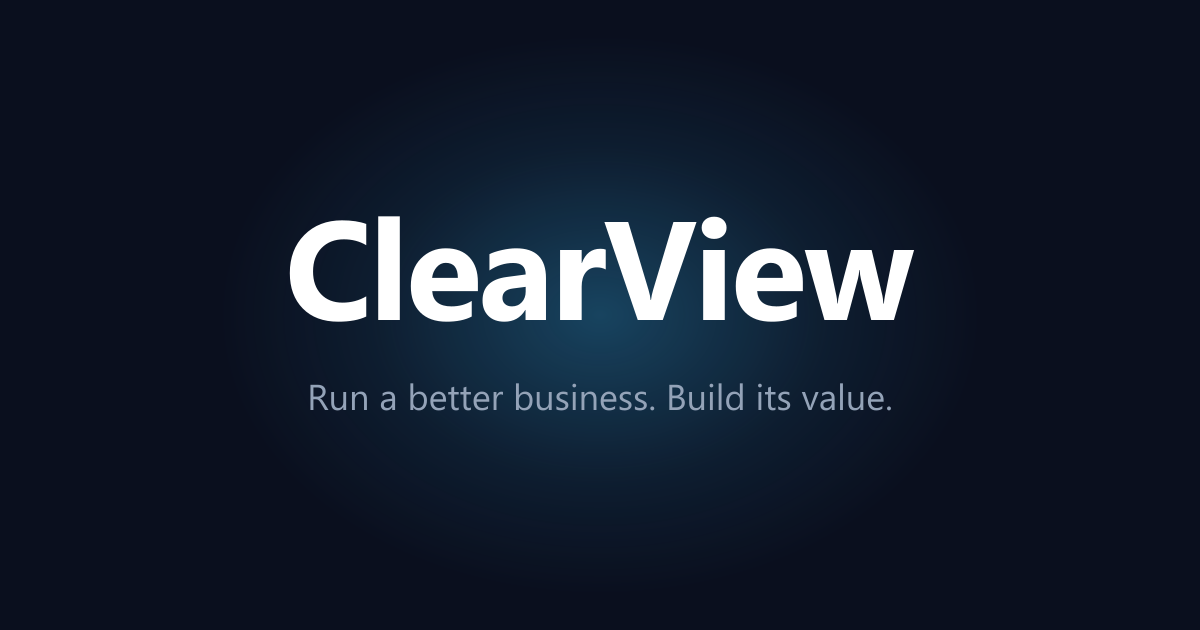
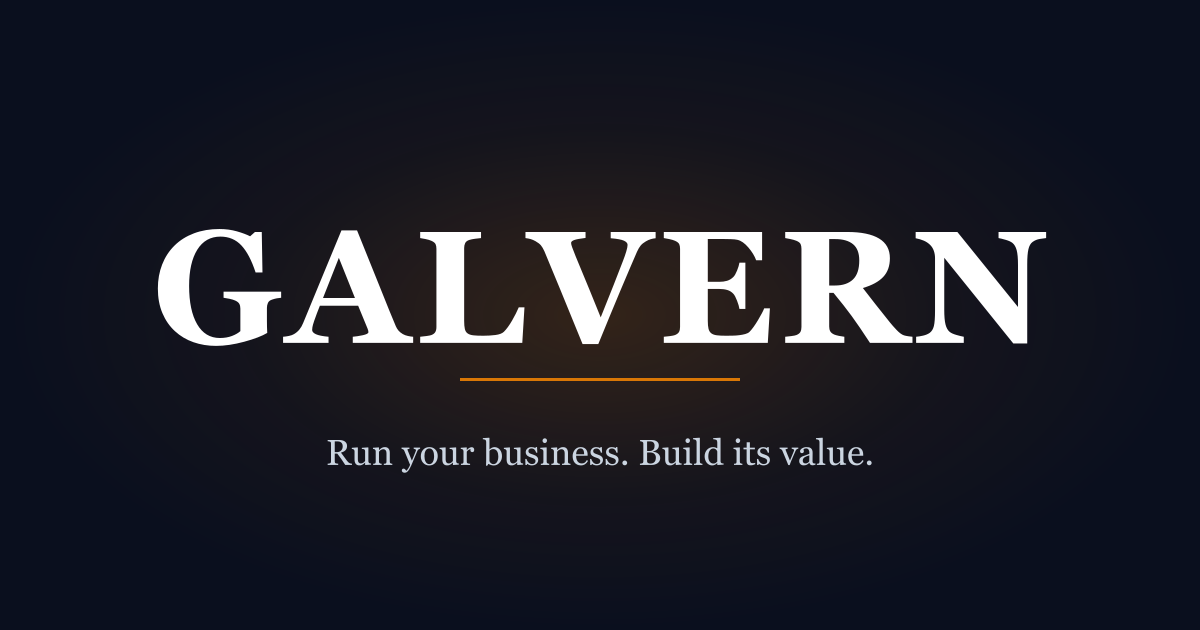
feat: rebrand ClearView to Galvern across marketing site
- String swap ClearView → Galvern site-wide
- H1 rewrite: 'Run your business. Build its value.'
  (derived from locked positioning, replaces off-message
  'Exit on Your Terms' framing)
- Sub-headline aligned to locked positioning + service
  business segment
- Color accent: sky-blue → copper/amber palette throughout
- og.png regenerated with Galvern wordmark + copper accent
- Favicon: CV tile → placeholder G tile
- Resend confirmation email updated to Galvern voice
- Footer copyright + privacy + terms updated

Domain galvern.com registered separately. Custom domain
wiring deferred to future session along with Resend domain
verification and repo rename.

Changed region(s): [[0.1233, 0.2413, 0.8942, 0.754]]

diff --git a/public/privacy.html b/public/privacy.html
@@ -3,8 +3,8 @@
   <head>
     <meta charset="UTF-8" />
     <meta name="viewport" content="width=device-width, initial-scale=1.0" />
-    <title>Privacy Policy — ClearView</title>
-    <meta name="description" content="ClearView privacy policy: what we collect, how we use it, and your rights." />
+    <title>Privacy Policy — Galvern</title>
+    <meta name="description" content="Galvern privacy policy: what we collect, how we use it, and your rights." />
     <meta name="robots" content="index,follow" />
     <link rel="icon" type="image/svg+xml" href="/favicon.svg" />
     <link rel="preconnect" href="https://fonts.googleapis.com" />
@@ -16,7 +16,7 @@
         --text: #ffffff;
         --muted: #94a3b8;
         --dim: #64748b;
-        --accent: #38bdf8;
+        --accent: #d97706;
         --rule: rgba(255, 255, 255, 0.08);
       }
       * { box-sizing: border-box; }
@@ -63,8 +63,8 @@
     <div class="wrap">
       <header>
         <a class="brand" href="/">
-          <span class="logo">CV</span>
-          <span>ClearView</span>
+          <span class="logo">G</span>
+          <span>Galvern</span>
         </a>
         <a class="home-link" href="/">← Back to home</a>
       </header>
@@ -73,10 +73,10 @@
       <p class="updated">Last updated: 2026-05-05</p>
 
       <h2>What we collect</h2>
-      <p>The only personal information we collect on this site is your email address, which you provide voluntarily by joining the ClearView beta waitlist.</p>
+      <p>The only personal information we collect on this site is your email address, which you provide voluntarily by joining the Galvern beta waitlist.</p>
 
       <h2>How we use it</h2>
-      <p>We use your email address to notify you when the ClearView beta opens and to send occasional product updates related to the launch.</p>
+      <p>We use your email address to notify you when the Galvern beta opens and to send occasional product updates related to the launch.</p>
 
       <h2>Who we share it with</h2>
       <p>We do not sell or share your email with anyone, except for the service providers necessary to operate the waitlist:</p>
@@ -86,12 +86,12 @@
       </ul>
 
       <h2>Your rights</h2>
-      <p>You can ask us to delete your data at any time by emailing <a href="mailto:hello@clearview.example">hello@clearview.example</a>. <em>(Aaron — replace this placeholder address before launch.)</em></p>
+      <p>You can ask us to delete your data at any time by emailing <a href="mailto:hello@galvern.example">hello@galvern.example</a>. <em>(Aaron — replace this placeholder address before launch.)</em></p>
 
       <h2>Changes</h2>
-      <p>We may update this policy as ClearView evolves. The "Last updated" date above will reflect the most recent revision.</p>
+      <p>We may update this policy as Galvern evolves. The "Last updated" date above will reflect the most recent revision.</p>
 
-      <footer>© <span id="year"></span> ClearView. All rights reserved.</footer>
+      <footer>© <span id="year"></span> Galvern. All rights reserved.</footer>
     </div>
     <script>document.getElementById('year').textContent = new Date().getFullYear();</script>
   </body>

diff --git a/src/components/Hero.tsx b/src/components/Hero.tsx
@@ -5,35 +5,34 @@ export function Hero() {
     <section className="relative min-h-screen flex flex-col items-center justify-center text-center px-6 py-24 overflow-hidden">
       {/* Background glow */}
       <div className="absolute inset-0 pointer-events-none">
-        <div className="absolute top-1/2 left-1/2 -translate-x-1/2 -translate-y-1/2 w-[700px] h-[700px] bg-sky-600/15 rounded-full blur-[120px]" />
+        <div className="absolute top-1/2 left-1/2 -translate-x-1/2 -translate-y-1/2 w-[700px] h-[700px] bg-copper-600/15 rounded-full blur-[120px]" />
       </div>
 
       <div className="relative z-10 max-w-4xl mx-auto">
         {/* Wordmark */}
         <div className="flex items-center justify-center gap-2 mb-10">
-          <div className="w-8 h-8 bg-sky-500 rounded-lg flex items-center justify-center">
-            <span className="text-white font-bold text-sm">CV</span>
+          <div className="w-8 h-8 bg-copper-500 rounded-lg flex items-center justify-center">
+            <span className="text-white font-bold text-sm">G</span>
           </div>
-          <span className="text-white font-semibold text-lg tracking-tight">ClearView</span>
+          <span className="text-white font-semibold text-lg tracking-tight">Galvern</span>
         </div>
 
         {/* Badge */}
-        <div className="inline-flex items-center gap-2 bg-sky-500/10 border border-sky-500/30 rounded-full px-4 py-1.5 text-sky-400 text-sm font-medium mb-8">
-          <span className="w-2 h-2 bg-sky-400 rounded-full animate-pulse" />
+        <div className="inline-flex items-center gap-2 bg-copper-500/10 border border-copper-500/30 rounded-full px-4 py-1.5 text-copper-500 text-sm font-medium mb-8">
+          <span className="w-2 h-2 bg-copper-500 rounded-full animate-pulse" />
           Now accepting beta applications
         </div>
 
         {/* Headline */}
         <h1 className="text-5xl sm:text-6xl lg:text-7xl font-extrabold text-white leading-tight tracking-tight mb-6">
-          Run a Better Business.<br />
-          <span className="text-sky-400">Know What It's Worth.</span><br />
-          Exit on Your Terms.
+          Run your business.<br />
+          <span className="text-copper-500">Build its value.</span>
         </h1>
 
         {/* Sub */}
         <p className="text-xl sm:text-2xl text-slate-400 max-w-2xl mx-auto mb-10 leading-relaxed">
-          ClearView is the operating platform for small business owners who want to grow smarter,
-          fix what's holding them back, and be ready — whenever the right opportunity comes.
+          Galvern is the operating platform for owner-operators of $1M–$20M service
+          businesses. The daily work that compounds into a more valuable company.
         </p>
 
         <div className="flex flex-col items-center gap-3">

diff --git a/public/terms.html b/public/terms.html
@@ -3,8 +3,8 @@
   <head>
     <meta charset="UTF-8" />
     <meta name="viewport" content="width=device-width, initial-scale=1.0" />
-    <title>Terms of Use — ClearView</title>
-    <meta name="description" content="ClearView terms of use for the beta waitlist site." />
+    <title>Terms of Use — Galvern</title>
+    <meta name="description" content="Galvern terms of use for the beta waitlist site." />
     <meta name="robots" content="index,follow" />
     <link rel="icon" type="image/svg+xml" href="/favicon.svg" />
     <link rel="preconnect" href="https://fonts.googleapis.com" />
@@ -16,7 +16,7 @@
         --text: #ffffff;
         --muted: #94a3b8;
         --dim: #64748b;
-        --accent: #38bdf8;
+        --accent: #d97706;
         --rule: rgba(255, 255, 255, 0.08);
       }
       * { box-sizing: border-box; }
@@ -63,8 +63,8 @@
     <div class="wrap">
       <header>
         <a class="brand" href="/">
-          <span class="logo">CV</span>
-          <span>ClearView</span>
+          <span class="logo">G</span>
+          <span>Galvern</span>
         </a>
         <a class="home-link" href="/">← Back to home</a>
       </header>
@@ -73,18 +73,18 @@
       <p class="updated">Last updated: 2026-05-05</p>
 
       <h2>About this site</h2>
-      <p>This site is a beta waitlist for ClearView, a SaaS platform currently in development.</p>
+      <p>This site is a beta waitlist for Galvern, a SaaS platform currently in development.</p>
 
       <h2>Submitting your email</h2>
       <p>By submitting your email address, you agree to receive updates from us about the product, including launch announcements and related communications.</p>
 
       <h2>No offer or guarantee</h2>
-      <p>ClearView is not yet generally available. Nothing on this site constitutes an offer to sell, a contract, or a guarantee of access to the product.</p>
+      <p>Galvern is not yet generally available. Nothing on this site constitutes an offer to sell, a contract, or a guarantee of access to the product.</p>
 
       <h2>Changes</h2>
       <p>We may update these terms at any time. The "Last updated" date above will reflect the most recent revision. Continued use of the site after changes means you accept the updated terms.</p>
 
-      <footer>© <span id="year"></span> ClearView. All rights reserved.</footer>
+      <footer>© <span id="year"></span> Galvern. All rights reserved.</footer>
     </div>
     <script>document.getElementById('year').textContent = new Date().getFullYear();</script>
   </body>

diff --git a/src/components/OwnerProfiles.tsx b/src/components/OwnerProfiles.tsx
@@ -3,19 +3,19 @@ const profiles = [
     emoji: '💪',
     label: 'The Grinder',
     tagline: 'Head down, running hard, no time to zoom out.',
-    desc: "ClearView gives you the visibility you've never had — so you can finally work on the business, not just in it.",
+    desc: "Galvern gives you the visibility you've never had — so you can finally work on the business, not just in it.",
   },
   {
     emoji: '🚀',
     label: 'The Grower',
     tagline: 'Ready to scale but not sure where to push.',
-    desc: 'ClearView shows you exactly where the leverage is so every dollar and hour goes toward real growth.',
+    desc: 'Galvern shows you exactly where the leverage is so every dollar and hour goes toward real growth.',
   },
   {
     emoji: '🎯',
     label: 'The Planner',
-    tagline: 'Not selling tomorrow, but want to be ready when it makes sense.',
-    desc: "ClearView builds your enterprise value every single day — so when the right moment comes, you're in control.",
+    tagline: 'Not selling tomorrow — but compounding value every day until you do.',
+    desc: 'Galvern builds your enterprise value every single day — so the business is always worth more tomorrow than today.',
   },
 ]
 
@@ -34,11 +34,11 @@ export function OwnerProfiles() {
           {profiles.map((p, i) => (
             <div
               key={i}
-              className="bg-white/[0.03] border border-white/10 rounded-2xl p-8 hover:border-sky-500/30 transition"
+              className="bg-white/[0.03] border border-white/10 rounded-2xl p-8 hover:border-copper-500/30 transition"
             >
               <div className="text-5xl mb-4">{p.emoji}</div>
               <h3 className="text-white font-bold text-xl mb-1">{p.label}</h3>
-              <p className="text-sky-400 text-sm font-medium mb-3">{p.tagline}</p>
+              <p className="text-copper-500 text-sm font-medium mb-3">{p.tagline}</p>
               <p className="text-slate-400 text-sm leading-relaxed">{p.desc}</p>
             </div>
           ))}

diff --git a/index.html b/index.html
@@ -6,12 +6,12 @@
     <meta name="viewport" content="width=device-width, initial-scale=1.0" />
 
     <!-- SEO -->
-    <title>ClearView — Run a better business. Build its value.</title>
-    <meta name="description" content="ClearView is the operating platform for small business owners who want to grow smarter, fix what's holding them back, and be ready whenever the right opportunity comes." />
+    <title>Galvern — Run a better business. Build its value.</title>
+    <meta name="description" content="Galvern is the operating platform for small business owners who want to grow smarter, fix what's holding them back, and be ready whenever the right opportunity comes." />
     <meta name="keywords" content="small business operations platform, M&A readiness, business valuation tool, exit planning small business, how to sell a service business, business performance dashboard" />
 
     <!-- Open Graph -->
-    <meta property="og:title" content="ClearView — Run a better business. Build its value." />
+    <meta property="og:title" content="Galvern — Run a better business. Build its value." />
     <meta property="og:description" content="The operating platform for owner-operators of service businesses doing $1M–$20M. Run the daily work that compounds into a more valuable company." />
     <meta property="og:image" content="/og.png" />
     <meta property="og:url" content="https://clearview-marketing.vercel.app" />
@@ -19,7 +19,7 @@
 
     <!-- Twitter Card -->
     <meta name="twitter:card" content="summary_large_image" />
-    <meta name="twitter:title" content="ClearView — Run a better business. Build its value." />
+    <meta name="twitter:title" content="Galvern — Run a better business. Build its value." />
     <meta name="twitter:description" content="The operating platform for owner-operators of service businesses doing $1M–$20M. Run the daily work that compounds into a more valuable company." />
     <meta name="twitter:image" content="/og.png" />
 

diff --git a/src/components/Features.tsx b/src/components/Features.tsx
@@ -6,8 +6,8 @@ const features = [
   },
   {
     icon: '📊',
-    title: 'M&A Readiness Score',
-    desc: 'Always know where you stand across financials, operations, and growth metrics — and exactly what to improve.',
+    title: 'Readiness Score',
+    desc: 'Always know where you stand across financials, operations, and growth — and exactly what to improve.',
   },
   {
     icon: '📈',
@@ -29,17 +29,17 @@ export function Features() {
           One platform. Every angle covered.
         </h2>
         <p className="text-slate-400 text-center max-w-xl mx-auto mb-16 text-lg">
-          ClearView connects your operations, financials, and strategic position into a single clear picture.
+          Galvern connects your operations, financials, and value drivers into a single clear picture.
         </p>
 
         <div className="grid sm:grid-cols-2 gap-6">
           {features.map((f, i) => (
             <div
               key={i}
-              className="bg-white/[0.03] border border-white/10 rounded-2xl p-8 hover:border-sky-500/30 transition group"
+              className="bg-white/[0.03] border border-white/10 rounded-2xl p-8 hover:border-copper-500/30 transition group"
             >
               <div className="text-4xl mb-4">{f.icon}</div>
-              <h3 className="text-white font-semibold text-xl mb-2 group-hover:text-sky-400 transition">
+              <h3 className="text-white font-semibold text-xl mb-2 group-hover:text-copper-500 transition">
                 {f.title}
               </h3>
               <p className="text-slate-400 leading-relaxed">{f.desc}</p>

diff --git a/src/components/Footer.tsx b/src/components/Footer.tsx
@@ -2,18 +2,18 @@ export function Footer() {
   return (
     <footer className="border-t border-white/5 py-8 px-6 text-center">
       <div className="flex items-center justify-center gap-2 mb-3">
-        <div className="w-6 h-6 bg-sky-500 rounded-md flex items-center justify-center">
-          <span className="text-white font-bold text-xs">CV</span>
+        <div className="w-6 h-6 bg-copper-500 rounded-md flex items-center justify-center">
+          <span className="text-white font-bold text-xs">G</span>
         </div>
-        <span className="text-slate-400 font-medium">ClearView</span>
+        <span className="text-slate-400 font-medium">Galvern</span>
       </div>
       <nav className="flex items-center justify-center gap-4 mb-3 text-sm">
-        <a href="/privacy.html" className="text-slate-500 hover:text-sky-400 transition">Privacy</a>
+        <a href="/privacy.html" className="text-slate-500 hover:text-copper-500 transition">Privacy</a>
         <span className="text-slate-700">·</span>
-        <a href="/terms.html" className="text-slate-500 hover:text-sky-400 transition">Terms</a>
+        <a href="/terms.html" className="text-slate-500 hover:text-copper-500 transition">Terms</a>
       </nav>
       <p className="text-slate-600 text-sm">
-        © {new Date().getFullYear()} ClearView. All rights reserved.
+        © {new Date().getFullYear()} Galvern. All rights reserved.
       </p>
     </footer>
   )

diff --git a/api/subscribe.ts b/api/subscribe.ts
@@ -7,11 +7,11 @@ const EMAIL_RE = /^[^\s@]+@[^\s@]+\.[^\s@]+$/
 
 const CONFIRMATION_TEXT = `Thanks for reserving your spot.
 
-ClearView is being built for owner-operators of service businesses doing $1M-$20M who want to run the daily work AND build the company's value at the same time. We'll be in touch when the beta opens.
+Galvern is being built for owner-operators of service businesses doing $1M-$20M who want to run the daily work AND build the company's value at the same time. We'll be in touch when the beta opens.
 
 No action needed from you right now.
 
-— The ClearView team
+— The Galvern team
 `
 
 export default async function handler(request: Request): Promise<Response> {
@@ -65,9 +65,9 @@ export default async function handler(request: Request): Promise<Response> {
     try {
       const resend = new Resend(resendKey)
       await resend.emails.send({
-        from: 'ClearView <onboarding@resend.dev>',
+        from: 'Galvern <onboarding@resend.dev>',
         to: email,
-        subject: "You're on the ClearView beta list",
+        subject: "You're on the Galvern beta list",
         text: CONFIRMATION_TEXT,
       })
     } catch (e) {

diff --git a/src/components/WaitlistCTA.tsx b/src/components/WaitlistCTA.tsx
@@ -4,12 +4,12 @@ export function WaitlistCTA() {
   return (
     <section className="py-24 px-6">
       <div className="max-w-2xl mx-auto text-center">
-        <div className="bg-gradient-to-br from-sky-500/10 to-blue-600/5 border border-sky-500/20 rounded-3xl p-12">
+        <div className="bg-gradient-to-br from-copper-500/10 to-copper-600/5 border border-copper-500/20 rounded-3xl p-12">
           <h2 className="text-3xl sm:text-4xl font-bold text-white mb-4">
             Be First. Shape the Product.
           </h2>
           <p className="text-slate-400 text-lg mb-8 leading-relaxed">
-            We're opening ClearView to a small group of beta users. Early members get{' '}
+            We're opening Galvern to a small group of beta users. Early members get{' '}
             <span className="text-white font-medium">free access</span>, direct input on features,
             and priority onboarding.
           </p>

diff --git a/src/components/PainPoints.tsx b/src/components/PainPoints.tsx
@@ -9,7 +9,7 @@ const pains = [
   },
   {
     icon: '⚡',
-    text: "When growth stalls — or a buyer calls — you're not ready.",
+    text: "You can't tell which of today's hustle actually compounds into value.",
   },
 ]
 
@@ -24,7 +24,7 @@ export function PainPoints() {
           {pains.map((p, i) => (
             <div
               key={i}
-              className="bg-white/[0.03] border border-white/10 rounded-2xl p-6 text-center hover:border-sky-500/30 transition"
+              className="bg-white/[0.03] border border-white/10 rounded-2xl p-6 text-center hover:border-copper-500/30 transition"
             >
               <div className="text-4xl mb-4">{p.icon}</div>
               <p className="text-slate-300 text-base leading-relaxed">{p.text}</p>

diff --git a/tailwind.config.js b/tailwind.config.js
@@ -4,13 +4,19 @@ export default {
   theme: {
     extend: {
       colors: {
+        copper: {
+          400: '#e89968',
+          500: '#d97706',
+          600: '#b87333',
+          700: '#9a5d28',
+        },
         brand: {
-          50:  '#f0f9ff',
-          100: '#e0f2fe',
-          500: '#0ea5e9',
-          600: '#0284c7',
-          700: '#0369a1',
-          900: '#0c4a6e',
+          50:  '#fff7ed',
+          100: '#ffedd5',
+          500: '#d97706',
+          600: '#b87333',
+          700: '#9a5d28',
+          900: '#7c2d12',
         },
       },
       fontFamily: {

diff --git a/README.md b/README.md
@@ -1,6 +1,6 @@
 # clearview-marketing
 
-ClearView marketing site — landing page + beta waitlist capture.
+Galvern marketing site — landing page + beta waitlist capture.
 
 **Live:** TBD (Vercel)
 **Main app:** [clearview](https://github.com/amcclone/clearview)
